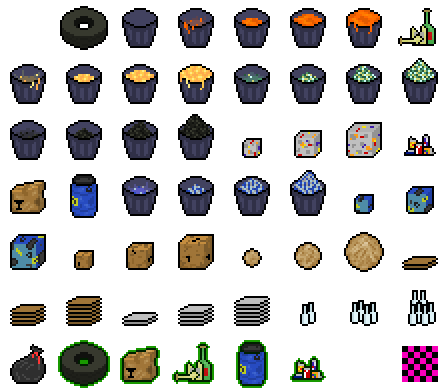
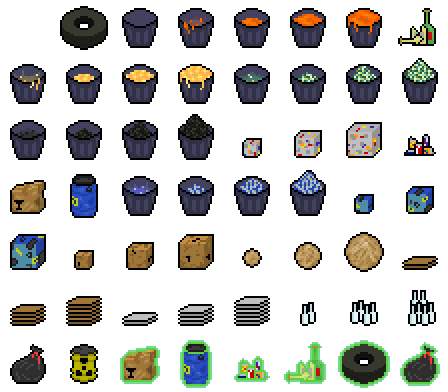
Nucleaire

Changed region(s): [[0.125, 0.8571, 1.0, 1.0]]

diff --git a/machine/Decontamination.js b/machine/Decontamination.js
@@ -1,0 +1,144 @@
+Decontamination = function(){
+	this.sas = [];
+	this.decontaminateurs = [];
+	this.tables = [];
+	this.sols = [];
+}
+
+// ====== SAS ======
+
+DecontaminationSAS = function(sprite, posx, posy, groupe, solide){
+	this.sas = groupe.create(posx, posy, sprite);
+	this.sas.animations.add('ferme', [8,7,6,5,4,3,2,1,0], 4, false);
+	this.sas.animations.add('ouvre', [0,1,2,3,4,5,6,7,8], 4, false);
+	this.sas.frame = 8;
+	
+	this.solidGroup = solide; // Groupe du sol quand ferme
+	this.tuile = null;
+	this.posx = posx;
+	this.posy = posy + 6;
+}
+
+DecontaminationSAS.prototype.ferme = function(){
+	this.sas.play('ferme');
+	
+	this.tuile = this.solidGroup.create(this.posx, this.posy, 'ground');
+	this.tuile.body.immovable = true;
+}
+
+DecontaminationSAS.prototype.ouvre = function(){
+	this.sas.play('ouvre');
+	
+	this.tuile.destroy();
+}
+
+// ====== DECONTAMINATEUR ======
+
+DecontaminationDecontaminateur = function(sprite, posx, posy, groupe, itemGroup){
+	this.decontaminateur = groupe.create(posx, posy, sprite);
+	this.decontaminateur.animations.add('actif', [1,2,3,4], 4, true);
+	this.decontaminateur.animations.add('fin', [5,6,7], 3, false);
+	this.decontaminateur.frame = 0;
+	
+	this.stock = 0;
+	
+	this.item = itemGroup.create(this.decontaminateur.x + 18, this.decontaminateur.y + 60, 'itemsbubbles');
+	this.item.frame = 0;
+}
+
+DecontaminationDecontaminateur.prototype.interact = function(){
+	return;
+}
+
+DecontaminationDecontaminateur.prototype.drop = function(itemId){
+	if(itemId == 0 && this.stock != 0){
+		this.decontaminateur.frame = 0;
+		this.item.frame = 0;
+		let tmp = this.stock;
+		this.stock = 0;
+		return tmp;
+	}
+	return itemId;
+}
+
+// ====== BOUTON ======
+
+DecontaminationBouton = function(sprite, posx, posy, groupe, processusDecontamination){
+	this.bouton = groupe.create(posx, posy, sprite);
+	this.bouton.animations.add('actif', [1, 2], 5, true);
+	this.bouton.frame = 0;
+	this.work = false;
+	
+	this.deconta = processusDecontamination;
+}
+
+DecontaminationBouton.prototype.interact = function(){ 
+	let pret = true;
+	for(let i = 0; i < this.deconta.decontaminateurs.length; i++){
+		if(this.deconta.decontaminateurs[i].stock != 0) pret = false;
+	}
+	
+	// Si les decontaminateurs sont vides, nous avons des dechets radioactifs et la decontamination n'est pas en marche
+	if(pret == true && this.work == false){
+		this.work = true;
+		this.bouton.play('actif');
+		// On ferme les sas
+		for(let i = 0; i < this.deconta.sas.length; i++){
+			this.deconta.sas[i].ferme();
+		}
+		// On demarre les decontaminateurs
+		for(let i = 0; i < this.deconta.decontaminateurs.length; i++){
+			this.deconta.decontaminateurs[i].decontaminateur.play('actif');
+		}
+		game.time.events.add(5000, () => {
+			this.bouton.frame = 0;
+			// On ouvre les sas
+			for(let i = 0; i < this.deconta.sas.length; i++){
+				this.deconta.sas[i].ouvre();
+			}
+			// On arrete les decontaminateurs
+			for(let i = 0; i < this.deconta.decontaminateurs.length; i++){
+				this.deconta.decontaminateurs[i].decontaminateur.play('fin');
+				this.deconta.decontaminateurs[i].item.frame = itemsId.Nucleaire;
+				this.deconta.decontaminateurs[i].stock = itemsId.Nucleaire;
+			}
+			
+			// On decontamine les objets
+			for(let i = 0; i < this.deconta.tables.length; i++){
+				switch(this.deconta.tables[i].stock){
+					case itemsId.RadCarton:
+						this.deconta.tables[i].drop(0);
+						this.deconta.tables[i].drop(itemsId.Carton);
+						break;
+					case itemsId.RadPlastique:
+						this.deconta.tables[i].drop(0);
+						this.deconta.tables[i].drop(itemsId.Plastique);
+						break;
+					case itemsId.RadMetal:
+						this.deconta.tables[i].drop(0);
+						this.deconta.tables[i].drop(itemsId.Metal);
+						break;
+					case itemsId.RadVerre:
+						this.deconta.tables[i].drop(0);
+						this.deconta.tables[i].drop(itemsId.Verre);
+						break;
+					case itemsId.RadPneu:
+						this.deconta.tables[i].drop(0);
+						this.deconta.tables[i].drop(itemsId.Pneu);
+						break;
+					case itemsId.RadPoubelle:
+						this.deconta.tables[i].drop(0);
+						this.deconta.tables[i].drop(itemsId.Poubelle);
+						break;
+				}
+			}
+			
+			// Travail termine
+			this.work = false;
+		} , this);
+	}
+}
+
+DecontaminationBouton.prototype.drop = function(itemId){
+	return itemId;
+}

diff --git a/Creatmap.js b/Creatmap.js
@@ -8,6 +8,7 @@
 	}
 	
 	game.pollution = [];
+	var processDeconta = new Decontamination();
 
 	// Groupes de sprites
 	platformsSolid = game.add.group();
@@ -91,17 +92,17 @@
 			let down = true;
 			if(j == matrice.length - 1){ // Bas
 			  down = false;
-			}else if(matrice[j+1][i] != 3 && matrice[j+1][i] != 4){
+			}else if(matrice[j+1][i] != 3 && matrice[j+1][i] != 4 && matrice[j+1][i] != 29){
 			  down = false;
 			}
 			if(i == 0){ // Gauche
 			  left = false;
-			}else if(matrice[j][i-1] != 3 && matrice[j][i-1] != 4){
+			}else if(matrice[j][i-1] != 3 && matrice[j][i-1] != 4 && matrice[j][i-1] != 29 && matrice[j][i-1] != 31){
 			  left = false;
 			}
 			if(i == matrice[0].length - 1){ // Droite
 			  right = false;
-			}else if(matrice[j][i+1] != 3 && matrice[j][i+1] != 4){
+			}else if(matrice[j][i+1] != 3 && matrice[j][i+1] != 4 && matrice[j][i+1] != 29 && matrice[j][i+1] != 31){
 			  right = false;
 			}
 
@@ -290,6 +291,46 @@
 				let tuile2 = platformsSolid.create(i*64, (j+1)*64, 'ground');
 				tuile2.body.immovable = true;
 			}
+			break;}
+			
+			case 27:{ // DECONTAMINATION BENNE
+				let tuile = platformsSolid.create(i*64, j*64, 'ground');
+				tuile.body.immovable = true;
+				map[j][i] = new Benne('decontabarrils',i*64,j*64 - (74-64),object,'nucleaire');
+			break;}
+			
+			case 28:{ // DECONTAMINATION SOL
+				processDeconta.sols.push(game.add.sprite(i*64, j*64, 'decontasol'));
+				map[j][i] = 0;
+			break;}
+			
+			case 29:{ // DECONTAMINATION BOUTON
+				let tuile = platformsSolid.create(i*64, j*64, 'ground');
+				tuile.body.immovable = true;
+				map[j][i] = new DecontaminationBouton('decontabouton', i*64, j*64 - (74 - 64), object, processDeconta);
+			break;}
+			
+			case 30:{ // DECONTAMINATION TABLE
+				let tuile=platformsSolid.create(i*64, j*64, 'decontasol');
+				tuile.body.immovable = true;
+				let table = new Table('decontatable', i*64, j*64 - (84-64), object, itemGui);
+				processDeconta.tables.push(table);
+				map[j][i] = table;
+			break;}
+			
+			case 31:{ // DECONTAMINATION SAS
+				game.add.sprite(i*64, j*64, 'ground');
+				let porte = new DecontaminationSAS('decontasas', i*64, j*64 - 6, object, platformsSolid);
+				processDeconta.sas.push(porte);
+				map[j][i] = 0;
+			break;}
+			
+			case 32:{ // DECONTAMINATION DECONTAMINATEUR
+				let tuile=platformsSolid.create(i*64, j*64, 'decontasol');
+				tuile.body.immovable = true;
+				let decontaminateur = new DecontaminationDecontaminateur('decontaminateur', i*64, j*64 - (96 - 64), object, itemGui);
+				processDeconta.decontaminateurs.push(decontaminateur);
+				map[j][i] = decontaminateur;
 			break;}
 			
 			default:

diff --git a/data.js b/data.js
@@ -1,27 +1,27 @@
 var levels = [
   {
     matrice: [
-      [ 3,15, 3, 3, 3, 4, 3, 3, 4, 4, 3, 3, 3,22,23, 3, 3,-1,-1, 3, 3],
-      [ 3,11, 0, 8,21, 0, 0, 0, 0, 0, 7, 0, 7, 2, 2, 1, 1,-1,-1,16 ,3],
-      [ 3,11, 0, 0, 0, 0, 2, 2, 2, 0, 0, 0, 0, 0, 0, 0,-1,-1,-1,-1, 3],
-      [ 3,11, 0, 0, 0, 0, 2, 2, 2, 0, 2, 2, 2, 0, 0, 0,-1,-1,-1,17, 3],
-      [ 3,11, 0, 0, 0, 0, 0, 0, 0, 0, 6, 6, 9, 0, 0, 1, 1,-1,-1,-1, 3],
+      [ 3,15, 3, 3, 3, 3, 3,29, 4, 4, 3, 3, 3,22,23, 3, 3,-1,-1, 3, 3],
+      [ 3,11, 3,30,30,32, 3, 0, 0, 0, 7, 0, 7, 2, 2, 1, 1,-1,-1,16 ,3],
+      [ 3,11, 3,28,28,28, 3, 0, 2, 0, 0, 0, 0, 0, 0, 0,-1,-1,-1,-1, 3],
+      [ 3,11, 3, 3, 4,31, 3, 0, 2, 0, 2, 2, 2, 0, 0, 0,-1,-1,-1,17, 3],
+      [ 3,11, 0,32, 0, 0, 0, 0, 0, 0, 6, 6, 9, 0, 0, 1, 1,-1,-1,-1, 3],
       [ 3,11, 0, 0, 0, 0, 8, 9, 0, 0, 0, 0, 0, 0, 0, 2, 2,-1,-1,18, 3],
       [ 3,11, 0, 0, 0, 0,12,12,12,12,11, 0, 0, 0, 0, 0, 0, 0, 0, 5, 3],
-      [ 3,14, 0, 0, 0, 0,10,13,13,13,11, 0,26, 0, 0,26, 0, 0,20,19, 3],
-      [ 3, 0, 0,24,24, 0, 0, 0, 0,10,13, 0,26, 0, 0,26, 0,25,25, 0, 3],
+      [ 3,11, 0, 0, 0, 0,10,13,13,13,11, 0,26, 0, 0,26, 0, 0,20,19, 3],
+      [ 3,14, 0,24,24, 0, 0, 0, 0,10,13, 0,26, 0, 0,26, 0,25,25, 0, 3],
       [ 3, 5, 0, 0, 0, 0, 0, 0, 0, 0, 0, 0, 0, 0, 0, 0, 0, 0, 0, 0, 3],
-      [ 3, 0, 0, 0, 1, 8, 9,21,16,17, 0, 0, 0, 0, 0, 0, 0, 0, 0, 0, 3],
+      [ 3, 0, 0, 0, 1, 8, 9,21,16,17, 0, 0, 0, 0, 0, 0, 0, 0, 8,21, 3],
       [ 3, 3, 3, 3, 3, 3, 3, 3, 3, 3, 3, 3, 3,23,23, 3, 3, 3, 3, 3, 3]
     ],
-    items: [itemsId.Pneu, itemsId.Poubelle, itemsId.Plastique, itemsId.Metal, itemsId.Verre, itemsId.Carton, itemsId.Sceau, itemsId.Poubelle],
-    itemsTime: 100,
+    items: [itemsId.RadPneu, itemsId.RadPoubelle, itemsId.RadPlastique, itemsId.RadMetal, itemsId.RadVerre, itemsId.RadCarton, itemsId.Sceau, itemsId.Poubelle],
+    itemsTime: 8000,
     itemsPattern: true,
     itemSpeed : 100,
-    chrono: 3,
+    chrono: 3600,
     score : 1000,
     pollution : 0,
-    spawnpoints: [[2,4],[3,4],[4,4],[5,4]],
+    spawnpoints: [[2,4],[4,4],[4,6],[2,6]],
     seauSpawnpoints: [],
     imagePath: "assets/miniMap/debugmap.png",
     name: "Level test",

diff --git a/Game.js b/Game.js
@@ -212,6 +212,14 @@ var game = {
 		game.load.image('pipe','assets/pipe.png');
 		game.load.image('barrel','assets/barrel.png');
 		game.load.image('crate','assets/crate.png');
+		
+		//Sprites Decontamination
+		game.load.spritesheet('decontaminateur','assets/decontaminateur.png',64,96);
+		game.load.spritesheet('decontabouton','assets/decontabouton.png',64,74);
+		game.load.spritesheet('decontasas','assets/decontasas.png',64,64);
+		game.load.image('decontatable','assets/decontatable.png');
+		game.load.image('decontasol','assets/decontasol.png');
+		game.load.image('decontabarrils','assets/decontabarrils.png');
 
 		//Sprites Pause
 		game.load.spritesheet('help','assets/help.png', 397, 60);

diff --git a/page.html b/page.html
@@ -21,6 +21,7 @@
 	<script src="./machine/Presse.js"></script>
 	<script src="./machine/Bassine.js"></script>
 	<script src="./machine/Camion.js"></script>
+	<script src="./machine/Decontamination.js"></script>
 	<script src="./Player.js"></script>
 	<script src="./Tuto.js"></script>
 	<script src="./Game.js"></script>

diff --git a/itemsid.js b/itemsid.js
@@ -46,5 +46,12 @@ var itemsId = Object.freeze({
   PateCarton1:36,
   PateCarton2:37,
   PateCarton3:38,
-  Poubelle:48
+  Poubelle:48,
+  Nucleaire:49,
+  RadCarton:50,
+  RadPlastique:51,
+  RadMetal:52,
+  RadVerre:53,
+  RadPneu:54,
+  RadPoubelle:55
 });

diff --git a/machine/Benne.js b/machine/Benne.js
@@ -126,6 +126,13 @@ Benne.prototype.drop=function(itemId){
 				break;
 			}
 			break;
+			case 'nucleaire':
+			if(itemId == itemsId.Nucleaire){
+				this.weight += 1;
+				this.addscore(0);
+				return 0;
+			}
+			break;
 		}
 	}
 	return itemId;
